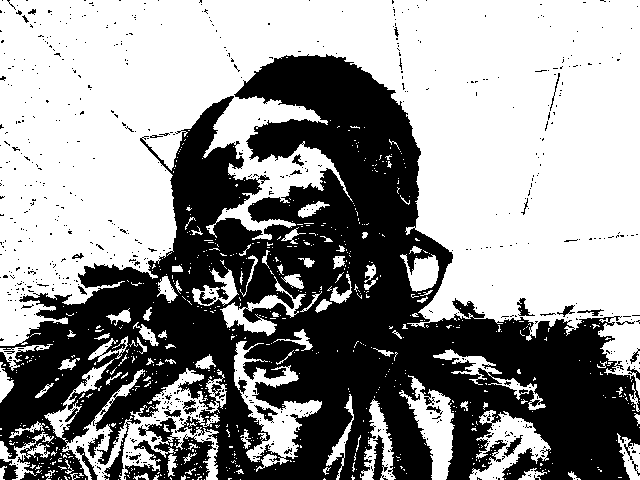
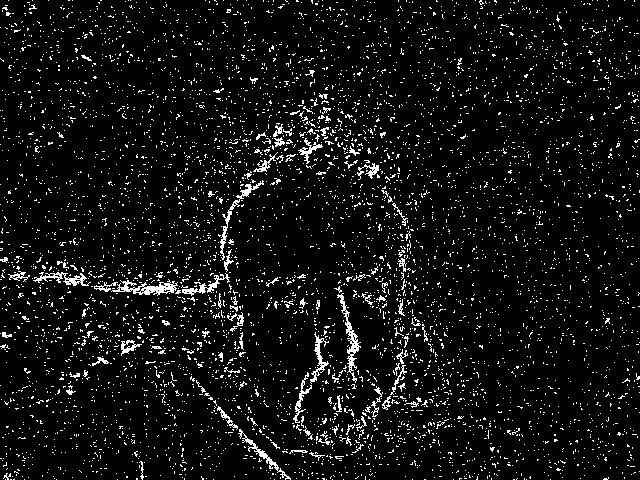
Sunday Feb 11

diff --git a/Shutupandbounce/Aurora/assignment7.py b/Shutupandbounce/Aurora/assignment7.py
@@ -14,7 +14,7 @@ Rectangles, dots, text, ellipses and lines of different colours.
 #(a)generate the file
 import numpy as np
 import cv2
-img = cv2.imread('1.jpg',0) #put the image in the ICS4U decitory
+img = cv2.imread('1e.jpg',0) #put the image in the ICS4U decitory
 #img = np.zeros((512,512,3), np.uint8) #change the size of the image
 print(img)
 #cv2.imshow('1.jpg',0)
@@ -27,20 +27,20 @@ cv2.circle(img,(1000,700),50,(0,200,0),-1) # draw some lines and ellipses and re
 font = cv2.FONT_HERSHEY_SIMPLEX#set the font
 cv2.putText(img,'Haking to the Gate',(10,500), font, 4,(255,255,255),2,cv2.LINE_AA)#put text to the image within the chosen font
 cv2.imwrite('1e.jpg',img)
-cv2.imshow('1.jpg',img)
+#cv2.imshow('1e.jpg',img)
 cv2.waitKey(0)
 k = cv2.waitKey(0)
 if k == 32:
     cv2.destroyAllWindows() 
 
-img2 = cv2.imread('2.jpg',0)#load in a new image
-img2 = np.zeros((512,512,3), np.uint8)
+img2 = cv2.imread('1e.jpg',0)#load in a new image
+#img2 = np.zeros((512,512,3), np.uint8)
 #(b)edit it to the  same size with a photograph taken by your phone.
 print(img2)
 cv2.imshow('2.jpg',0)
 for p in range(0,11):
     dst = cv2.addWeighted(img2,1-p/10,img,p/10,0)
-    cv2.imwrite('AFTERimage',dst)
+    cv2.imwrite('AFTERimage'+str(p)+'.jpg',dst)
     cv2.waitKey(0)
     i = cv2.waitKey(0)
     if i == 32:

diff --git a/hhh/Chris/Assignment7.py b/hhh/Chris/Assignment7.py
@@ -9,8 +9,8 @@ import cv2
 import numpy as np
 
 # Load an color image in grayscale
-img1 = cv2.imread('mario.jpg'，0)
-img2 = cv2.imread("path.jpg",1)
+img1 = cv2.imread('ActivePhotoRaw.png',0)
+img2 = cv2.imread("Foreground.png",1)
 
 # Draw a line
 cv2.line(img1,(0,0),(1000,800),(100,0,255),3)
@@ -28,7 +28,7 @@ cv2.putText(img1,'mario',(10,500), font, 4,(255,255,255),2,cv2.LINE_AA)
 img2 =cv2.imread('path.jpg',1)#This is the second picture.
 dst = ['1','2','3','4','5','6','7','8','9','10']
 for i in range(0,10):
-    dst[i] = cv2.addWeighted(img1,i/10,img2,1-i/10,0)
+    dst[i] = cv2.addWeighted(img1,i/10.0,img2,1-i/10.0,0)
     cv2.imshow(str(dst[i]),dst[i])
 cv2.waitKey(0)#change image.
 cv2.destroyAllWindows()

diff --git a/Shutupandbounce/Peter/Photo Processing/Peter(Assignment 08).py b/Shutupandbounce/Peter/Photo Processing/Peter(Assignment 08).py
@@ -7,11 +7,11 @@
 #Program Function:(1) Start with the BasicFilter.py program in the Vision Apps repository from GitHub.
 #(2) Convert the program to work with Python 3 and OpenCV
 #(3) Use the program to take two similar photos, process them and produce an image that highlights the difference between the photos.
-import pygame
-import pygame.camera
-import pygame.image
+#import pygame
+#import pygame.camera
+#import pygame.image
 from PIL import Image, ImageDraw
-from pygame.locals import *
+#from pygame.locals import *
 
 
 import cv2

diff --git a/parents of henry/khan/assignment7.py b/parents of henry/khan/assignment7.py
@@ -11,8 +11,8 @@ Variable names:Img1,Img2,Height,Width,Res,Mix
 """
 import cv2
 import numpy as np#This is to import the module
-Img1 = cv2.imread('1.jpg')#This is to read the image
-Img2 = cv2.imread('2.jpg')#This is to read another image
+Img1 = cv2.imread('BasePhotoRaw.PNG')#This is to read the image
+Img2 = cv2.imread('ResultPhoto.PNG')#This is to read another image
 '''
 Though actually that's a photograph in my phone instead of one taken by it(img2)
 I like the characters ...and want to use this picture

diff --git a/hhh/Angel/assignment7.py b/hhh/Angel/assignment7.py
@@ -24,10 +24,10 @@ font = cv2.FONT_HERSHEY_SIMPLEX#set font
 cv2.putText(img, 'Hello everybody!', (230, 50), font, 0.8, (0, 0, 0), 2, cv2.LINE_AA)#write text
 cv2.imshow('image',img)#show image
 
-img2 = cv2.imread('xg.jpg')#load another image
+img2 = cv2.imread('xg.JPG')#load another image
 for i in range(0,11):#blend two pictures
     new = cv2.addWeighted(img2,i/10,img,1.0-i/10,0)
-    cv2.imshow('blending'+str(i+1),new)
+    cv2.imwrite('blending'+str(i+1)+'.jpg',new)
 
 
 cv2.waitKey(0)

diff --git a/Shutupandbounce/Emma/assignment7.py b/Shutupandbounce/Emma/assignment7.py
@@ -53,10 +53,10 @@ img2 = cv2.circle(img2,(255,256),159,(159,112,80),20)
 cv2.namedWindow('image2', cv2.WINDOW_NORMAL)
 #Display the image
 cv2.imshow('image2',img2)
-k = cv2.waitKey(0)
+'''k = cv2.waitKey(0)
 if k == 27:# wait for ESC key to exit
     cv2.destroyAllWindows()
-
+'''
 #(c)
 for i in range(0,11):#Blend them in 11 different photographs by setting a for loop
     dst = cv2.addWeighted(img1,1-i/10,img2,i/10,0)

diff --git a/Toxicbug/Tony/basicfliter.py b/Toxicbug/Tony/basicfliter.py
@@ -24,7 +24,7 @@ Coding convention:
 #Graphics modules
 import numpy as np
 import cv2
-import pygame
+#import pygame
 #Random and Datetime
 from random import *
 from datetime import *
@@ -166,7 +166,7 @@ def takePhotos2():
             break
 
         
-takePhotos2()
+#takePhotos2()
 
 #def getPixel(X, Y)
 	#return - RGB colour of Pixel

diff --git a/Toxicbug/Charlotte/RobotSim6.py b/Toxicbug/Charlotte/RobotSim6.py
@@ -11,13 +11,13 @@
 
 
 #Read - import required modules
-import tkinter
+import Tkinter
 import sys
 from math import *
 import math
-from tkinter import font
-from tkinter import messagebox
-from tkinter import *
+#from Tkinter import font
+#from Tkinter import messagebox
+from Tkinter import *
 import time
 
         

diff --git a/Toxicbug/Jaune/pictures.py b/Toxicbug/Jaune/pictures.py
@@ -21,10 +21,10 @@ cv2.putText(img,'shutDown',(10,500), font, 4,(255,255,255),2,cv2.LINE_AA)#This l
 #This line is to show the image
 cv2.imshow('image',image)
 
-''''
+'''
 #This line is to save the image
 cv2.inwrite('black.png',img)
-''''
+'''
 
 img1 = cv2.imread('black.png')
 img2 = cv2.imread('glassess.png')
